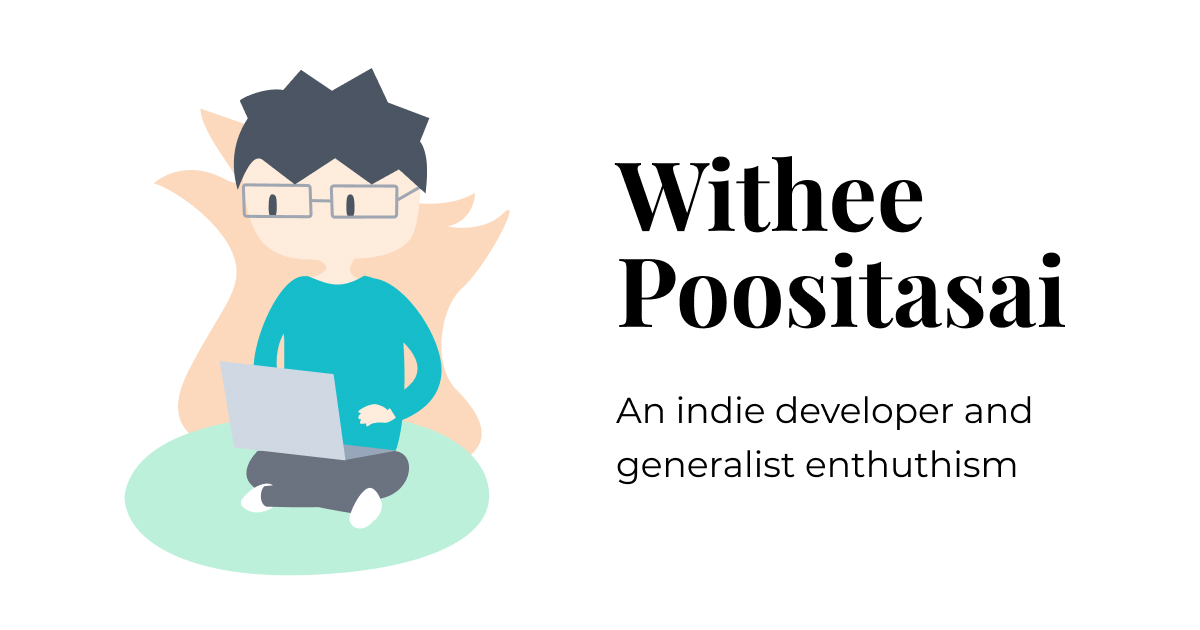
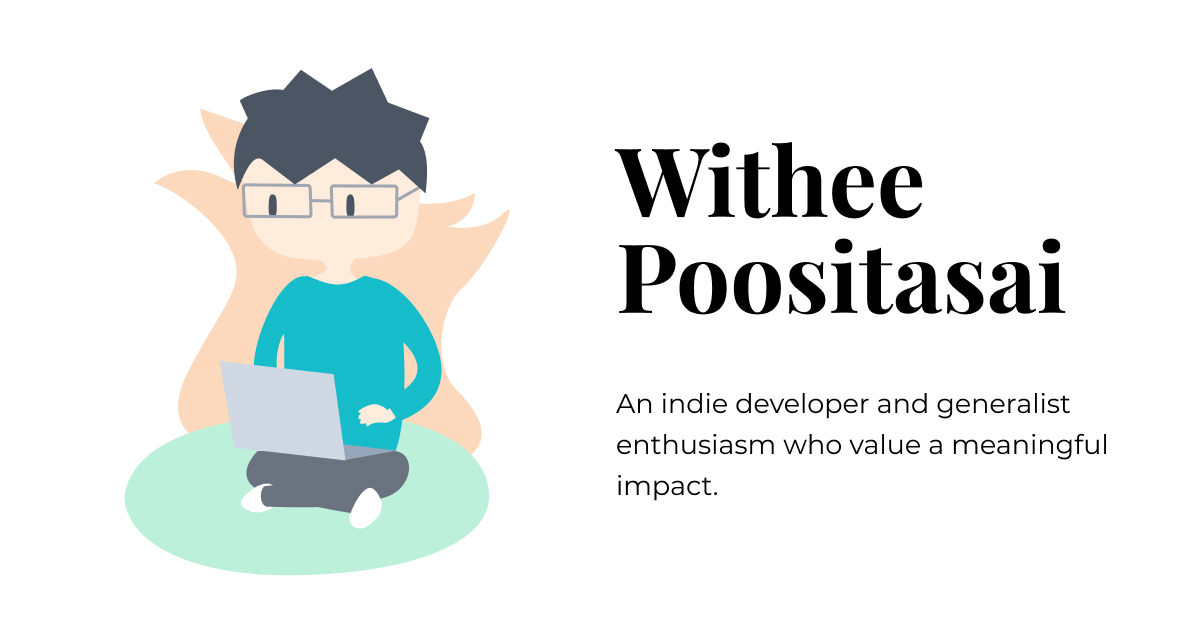
Update meta description and og image

Changed region(s): [[0.4933, 0.2111, 0.8942, 0.5429], [0.4933, 0.6333, 0.925, 0.7841]]

diff --git a/public/index.html b/public/index.html
@@ -8,7 +8,8 @@
 
     <meta
       name="description"
-      content="An indie developer and generalist enthuthism"
+      content="An indie developer and generalist enthusiasm who value a meaningful
+      impact"
     />
     <meta property="og:image" content="https://th1nkk1d.xyz/og-image.jpg" />
     <meta name="twitter:card" content="summary_large_image" />
